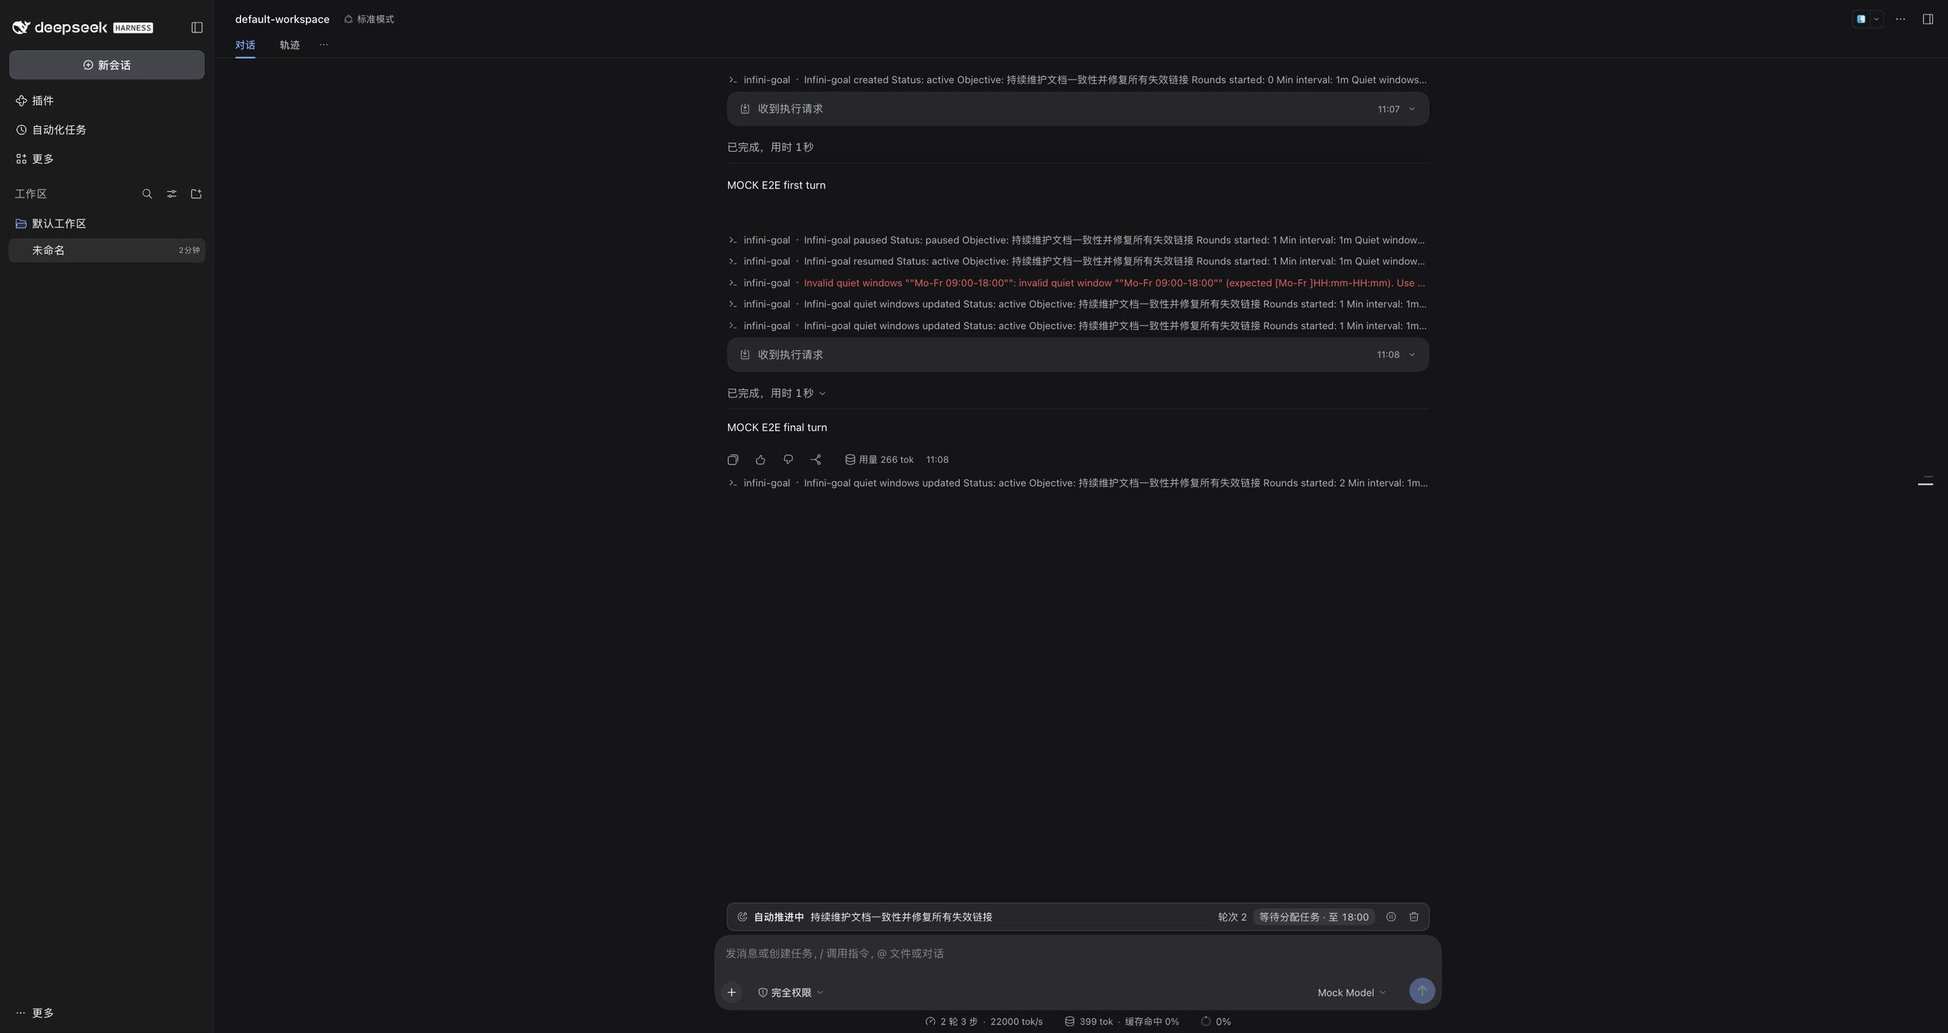
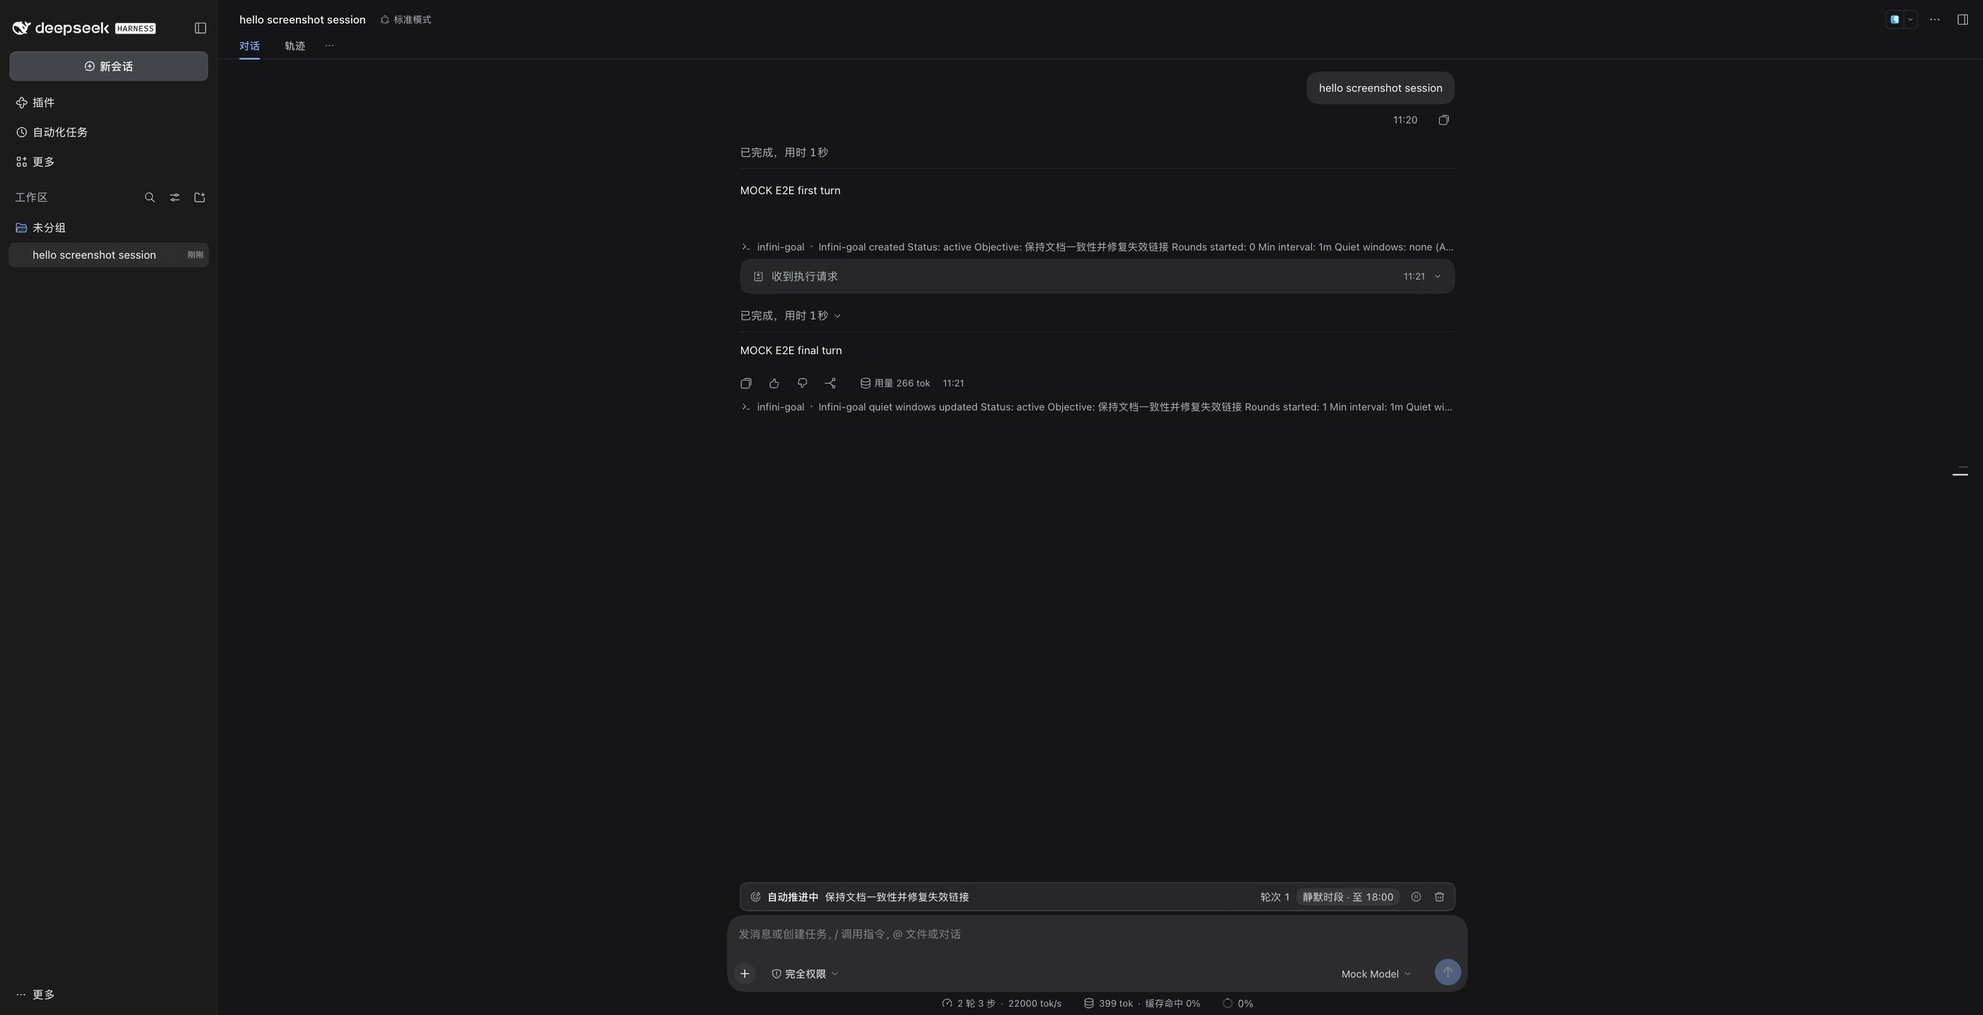
docs: keep quiet-window copy neutral across UI, tools, command, docs
The 'waiting for assigned work' framing was one motivating example, not the
only use case for quiet windows. Neutralize every user-visible and
model-visible string:

- client UI: '静默时段 · 至 {time}' / 'quiet window · until {time}' (was
  '等待分配任务' / 'waiting for assigned work'); meta descriptions updated
- command status: 'Automatic rounds are suppressed until ... (quiet window)'
- model tool guidance/parameter wording: quiet window suppresses automatic
  rounds; goal stays active and human turns continue
- README, DESIGN, bundle README and E2E README list example usages
  (off-hours, focus time, night, business hours, ...) instead of one scenario
- regenerate the quiet-window screenshot with the neutral copy

Behavior is unchanged; pnpm typecheck/test/build and the isolated E2E suite
(SUITE PASS: pacing 2021/2014ms at 2000ms minimum, quiet suppression/release,
pause) are re-verified.

diff --git a/packages/tool/src/index.ts b/packages/tool/src/index.ts
@@ -4,7 +4,7 @@
  *
  * The tools mirror the official `tool-goal` surface, extended with the pacing
  * configuration the infini-goal domain owns: a minimum trigger interval and
- * local-time quiet windows ("waiting for assigned work") instead of a round cap.
+ * local-time quiet windows (automatic-round suppression) instead of a round cap.
  *
  * @module @yankeguo/dsh-tool-infini-goal
  */
@@ -79,9 +79,9 @@ function guidance(blockedAfter: number): string {
     + 'no round cap: while its phase is active the harness keeps starting automatic continuation rounds until it '
     + 'is paused, blocked, completed, or cleared. Two pacing rules shape that autonomy: automatic rounds are spaced '
     + 'by a minimum trigger interval, and no automatic round starts inside the configured local-time quiet windows. '
-    + 'A quiet window is the "employee at work, waiting for assigned work" period: the goal stays active, human '
-    + 'turns and tools run normally, and the model simply does not self-start another round; never treat that '
-    + 'silence as failure or as a blocker. '
+    + 'A quiet window is a configured local-time period in which the goal stays active, human turns and tools run '
+    + 'normally, and the model simply does not self-start another round; never treat that silence as failure or '
+    + 'as a blocker. '
     + 'create_infini_goal may infer goal intent from a direct human request in any language. '
     + 'update_infini_goal action edit, pause, resume, and config require a direct human request. '
     + 'complete and blocked are also allowed during an exact automatic round of the current goal. '
@@ -190,7 +190,7 @@ export function apply(ctx: Context, config: Config): void {
       },
       quiet_windows: {
         type: 'string',
-        description: 'Optional local-time windows where the goal waits for assigned work instead of starting rounds, '
+        description: 'Optional local-time windows where no automatic round starts (the goal stays active and human turns continue), '
           + 'such as "Mo-Fr 09:00-18:00" or "Mo-Fr 09:00-18:00; Sa,Su 10:00-12:00"; "none" disables them.',
       },
       timezone: {

diff --git a/packages/client-ui/src/client/locales.ts b/packages/client-ui/src/client/locales.ts
@@ -6,14 +6,14 @@
  */
 export const zh = {
   'meta.title': '无限目标',
-  'meta.description': '在输入框上方展示无限续跑目标的阶段、轮次与下一次触发倒计时。',
+  'meta.description': '在输入框上方展示无限续跑目标的阶段、轮次、触发节奏与静默时段状态。',
   'phase.active': '自动推进中',
   'phase.paused': '已暂停',
   'phase.blocked': '已阻塞',
   'phase.complete': '已完成',
   'rounds': '轮次 {count}',
   'nextRoundIn': '下一轮 {time}',
-  'waitingUntil': '等待分配任务 · 至 {time}',
+  'waitingUntil': '静默时段 · 至 {time}',
   'minInterval': '最小间隔 {interval}',
   'objective.aria': '目标内容',
   'action.pause': '暂停目标',
@@ -29,14 +29,14 @@ export type InfiniGoalKey = keyof typeof zh
 /** English dictionary, checked complete against the zh key set. */
 export const en = {
   'meta.title': 'Infini Goal',
-  'meta.description': 'Shows the endless goal phase, rounds, and next-trigger countdown above the composer.',
+  'meta.description': 'Shows the endless goal phase, rounds, trigger pacing, and quiet-window state above the composer.',
   'phase.active': 'Auto-continuing',
   'phase.paused': 'Paused',
   'phase.blocked': 'Blocked',
   'phase.complete': 'Complete',
   'rounds': 'Rounds: {count}',
   'nextRoundIn': 'next round in {time}',
-  'waitingUntil': 'waiting for assigned work until {time}',
+  'waitingUntil': 'quiet window · until {time}',
   'minInterval': 'min interval {interval}',
   'objective.aria': 'Goal objective',
   'action.pause': 'Pause goal',

diff --git a/packages/command/tests/render.spec.ts b/packages/command/tests/render.spec.ts
@@ -62,7 +62,7 @@ describe('planLines', () => {
     expect(planLines(current, plan)).toEqual(['Next trigger: 2026-11-05 10:00 (ready now)'])
   })
 
-  it('says the goal is waiting for assigned work inside a quiet window', () => {
+  it('says automatic rounds are suppressed inside a quiet window', () => {
     const current = goal({
       lastRoundAt: null,
       quietWindows: [{ days: [1, 2, 3, 4, 5], start: '09:00', end: '12:00' }],
@@ -72,7 +72,7 @@ describe('planLines', () => {
     expect(plan.quietUntil).toBe(Date.UTC(2026, 10, 5, 4, 0, 0))
     expect(planLines(current, plan)).toEqual([
       'Next trigger: 2026-11-05 12:00 (in 2h)',
-      'Waiting for assigned work until 2026-11-05 12:00 (quiet window; time zone Asia/Shanghai).',
+      'Automatic rounds are suppressed until 2026-11-05 12:00 (quiet window; time zone Asia/Shanghai).',
     ])
   })
 
@@ -156,7 +156,7 @@ describe('renderStatus', () => {
     })
     const result = renderStatus(current, planOf(current))
     expect(result.text).toContain(
-      'Waiting for assigned work until 2026-11-05 12:00 (quiet window; time zone Asia/Shanghai).',
+      'Automatic rounds are suppressed until 2026-11-05 12:00 (quiet window; time zone Asia/Shanghai).',
     )
   })
 })

diff --git a/packages/protocol/src/types.ts b/packages/protocol/src/types.ts
@@ -38,9 +38,11 @@ export interface InfiniGoalBlockReason {
 /**
  * One local-time window in which no automatic round may start.
  *
- * This is the "employee is at work and waits for assigned tasks" period: the
- * durable goal stays active, human turns and tools keep working normally, but
- * the driver never injects a self-started continuation round inside the window.
+ * Inside the window the durable goal stays active, human turns and tools keep
+ * working normally, but the driver never injects a self-started continuation
+ * round. The configuration is application-agnostic: any period during which
+ * automatic continuation should stay quiet (off-hours, focus time, night
+ * hours, business hours, and so on).
  */
 export interface QuietWindow {
   /** ISO weekday numbers the window starts on (1 = Monday … 7 = Sunday); empty means every day. */

diff --git a/packages/client-ui/src/client/format.ts b/packages/client-ui/src/client/format.ts
@@ -69,8 +69,8 @@ export function formatCountdown(delayMs: number): string {
  * Describe the live schedule line of an active goal at one instant.
  *
  * Precedence mirrors what the driver would do:
- * 1. inside a quiet window, the goal is waiting for assigned work until the
- *    window ends (`waitingUntil`, rendered in the goal's own time zone);
+ * 1. inside a quiet window, no automatic round starts until the window ends
+ *    (`waitingUntil`, rendered in the goal's own time zone);
  * 2. while the minimum interval has not elapsed, the configured interval is
  *    shown (`minInterval`);
  * 3. otherwise the remaining delay to the next eligible trigger is counted

diff --git a/packages/client-ui/src/client/InfiniGoalBar.tsx b/packages/client-ui/src/client/InfiniGoalBar.tsx
@@ -4,8 +4,8 @@
  *
  * A present goal shows a goal glyph, its localized phase label, the truncated
  * objective, the admitted-round count, and one live schedule line:
- * - active inside a quiet window → "waiting for assigned work until HH:mm"
- *   (the employee-waits-for-assignment semantics);
+ * - active inside a quiet window → "quiet window · until HH:mm" (automatic
+ *   rounds are suppressed until the window ends);
  * - active while the minimum interval has not elapsed → "min interval 05:00";
  * - active otherwise → "next round in mm:ss", ticking once per second.
  *

diff --git a/packages/driver/src/index.ts b/packages/driver/src/index.ts
@@ -6,8 +6,7 @@
  * protocol package: the next round may start no earlier than
  * `lastRoundAt + minIntervalMs`, and never inside a configured quiet window.
  * While a quiet window is active the goal stays `active` and human turns keep
- * working normally, but no automatic round is injected — the goal waits for
- * assigned work, like an employee on the clock.
+ * working normally, but no automatic round is injected until the window ends.
  *
  * @module @yankeguo/dsh-infini-goal-driver
  */

diff --git a/packages/command/src/render.ts b/packages/command/src/render.ts
@@ -65,7 +65,7 @@ export function planLines(goal: InfiniGoalView, plan: TriggerPlan | undefined): 
   ]
   if (plan.quietUntil !== null) {
     lines.push(
-      `Waiting for assigned work until ${formatZonedDateTime(goal.timezone, plan.quietUntil)}`
+      `Automatic rounds are suppressed until ${formatZonedDateTime(goal.timezone, plan.quietUntil)}`
       + ` (quiet window; time zone ${goal.timezone}).`,
     )
   }

diff --git a/docs/DESIGN.md b/docs/DESIGN.md
@@ -1,7 +1,7 @@
 # dsh-infini-goal 设计说明
 
 一套 DeepSeek Harness（DSH）插件，参考官方 `dsh-goal` 的领域模型、模型工具与 UI 形态，
-但把"自动续跑"改造成**无限轮次 + 最小触发间隔 + 静默时段**的员工式目标。
+但把"自动续跑"改造成一个**无轮次上限 + 最小触发间隔 + 可配置静默时段**的无限目标。
 
 ## 1. 与官方 dsh-goal 的差异
 
@@ -9,15 +9,16 @@
 | --- | --- | --- |
 | 轮次上限 | `maxGoalRounds`（默认 256），用尽后 `resume` 被拒绝 | **无上限**，目标保持 `active` 直到被 pause / block / complete / clear |
 | 续跑节流 | 无：一旦 agent 空闲立即进入下一轮，空循环会疯狂重试 | **最小触发间隔** `minIntervalMs`：两次自动轮次的开始时间至少相隔这么久 |
-| 触发时段 | 无 | **静默时段** `quietWindows`：配置的本地时间段内绝不自动触发（模拟上班时间等待派活） |
+| 触发时段 | 无 | **静默时段** `quietWindows`：配置的本地时间段内不自动触发（免打扰、专注时段、非工作时段、夜间等任意场景） |
 | 激活模型 | 进程内 `armed`/`disarmed`，session 恢复/派生后自动解除武装 | 纯持久化：`phase === 'active'` 即自动续跑（进程重启、会话恢复后继续），节流与静默时段兜底 |
 | 远程 API | Typert Remote（`ctx.remote.goals`） | 不需要自定义 Remote：UI 读 Session projection，操作通过 `/infini-goal` 命令 |
 | 工具 | `get_goal` / `create_goal` / `update_goal` | `get_infini_goal` / `create_infini_goal` / `update_infini_goal` |
 | 命令 | `/goal` | `/infini-goal` |
 
-"上班员工"语义：把 `quietWindows` 设为工作时间（例如 `Mo-Fr 09:00-18:00`）。
-在该时段内目标保持 `active`，人类的普通对话、工具调用照常工作，但插件不会自动
-注入新一轮续跑消息——它像员工一样等待被分配任务；时段结束后才继续自主推进。
+静默时段只约束"自动触发"：在该时段内目标保持 `active`，人类的普通对话、工具调用照常工作，
+但插件不会自动注入新一轮续跑消息；时段结束后按节奏继续推进。
+这是一种通用机制，具体怎么用由使用者决定，例如：免打扰时段、专注工作时段、非工作时间、
+夜间、值班交接时间等。
 
 ## 2. 包结构
 
@@ -177,7 +178,7 @@ Round prompt（模型可见）：`<infini_goal_round>` 块，包含 objective、
 ## 7. 模型工具（`tool` 包）
 
 `inject = ['agents', 'infiniGoals', 'tools', 'systemPrompt']`，注册 system prompt section
-`tool:infini-goal`（解释无限续跑、最小间隔、静默时段"等待派活"语义、完成/阻塞纪律）。
+`tool:infini-goal`（解释无限续跑、最小间隔、静默时段对自动触发的抑制、完成/阻塞纪律）。
 
 - `get_infini_goal`：无参数，返回 `{ goal: null }` 或 `{ goal: {id, revision, objective, phase,
   roundsStarted, lastRoundAt, minIntervalMs, quietWindows, timezone, blockedReason?},
@@ -223,7 +224,7 @@ Round prompt（模型可见）：`<infini_goal_round>` 块，包含 objective、
 - 展示：
   - 无目标 / complete → 不渲染；
   - active：图标 + "自动推进中" + objective + 轮次 + "下一轮 00:42"；
-    静默时段内显示 "等待分配任务 · 至 18:00"；间隔等待显示 "最小间隔 01:00"；
+    静默时段内显示 "静默时段 · 至 18:00"；间隔等待显示 "最小间隔 01:00"；
   - paused / blocked：状态标签 + reason，显示 resume 按钮；
   - 操作按钮：pause / resume / clear（全部通过 `executeCommand('/infini-goal pause')` 等命令执行，
     UI 不实现自己的 Remote API）。
@@ -264,7 +265,7 @@ Round prompt（模型可见）：`<infini_goal_round>` 块，包含 objective、
   3. paused：等待 5s 无新轮次；
   4. 浏览器 boot graph 含 `@yankeguo/dsh-client-ui-infini-goal`，client bundle HTTP 200 可服务；
   5. 真实浏览器验证：`/infini-goal` 命令创建目标后状态条出现（active/轮次/最小间隔），
-     pause/resume/quiet 命令生效，静默时段显示"等待分配任务 · 至 18:00"；
+     pause/resume/quiet 命令生效，静默时段显示"静默时段 · 至 18:00"；
   6. `scripts/install-profile.mjs` 安装模式（profile bundle + node_modules 链接，非 --patch）
      同样能加载全部插件、命令与 UI。
 - 截图见 `docs/screenshots/`。
@@ -284,5 +285,5 @@ Round prompt（模型可见）：`<infini_goal_round>` 块，包含 objective、
   由驱动器改写成持久化 pause，因此 UI 永远能看到可 resume 的状态。
 - **UI**：v1 不含 objective 内联编辑（命令 `edit` 覆盖），按钮只做 pause/resume/clear；
   等待最小间隔时状态条显示 `最小间隔 1m`（来自 `planTrigger.reason='interval'`），
-  静默时段显示 `等待分配任务 · 至 HH:mm`。
+  静默时段显示 `静默时段 · 至 HH:mm`。
 - **命令**：`/infini-goal status` 为无参数形式的显式别名；命令不接受附件（返回友好错误）。

diff --git a/README.md b/README.md
@@ -2,12 +2,12 @@
 
 一套面向 [DeepSeek Harness](https://github.com/deepseek-ai/deepseek-harness)（DSH）的插件：
 参考官方 `dsh-goal` 的领域模型、模型工具与 UI 形态，但把"自动续跑"改造成一个
-**无限轮次的员工式目标**。
+**无轮次上限、按最小间隔推进、可配置静默时段**的无限目标。
 
 - **没有最大轮次**：目标保持 `active` 直到被完成、暂停、阻塞或清除；
 - **最小触发间隔**：两次自动轮次的开始时间至少相隔 `minIntervalMs`，空循环不会疯狂重试；
-- **静默时段**（`quietWindows`）：配置的本地时间段内绝不自动触发，模拟员工上班时间
-  "等着被分配任务"；人类对话与工具调用照常工作，时段结束后自动继续。
+- **静默时段**（`quietWindows`）：配置的本地时间段内不自动触发；人类对话与工具调用照常工作，
+  时段结束后自动继续。可用于免打扰、专注时段、非工作时段、夜间等任意场景。
 
 ## 特性
 
@@ -20,15 +20,15 @@
 | Session projection | `infiniGoal` projection 把当前目标同步到浏览器，UI 无需自定义 Remote API |
 | 模型工具 | `get_infini_goal` / `create_infini_goal` / `update_infini_goal` |
 | 人类命令 | `/infini-goal`，可在不消耗模型轮次的情况下查看状态、配置节奏、暂停/恢复 |
-| 状态条 UI | composer 上方的 InfiniGoalBar：阶段、轮次、下一轮倒计时、静默等待提示、暂停/恢复/清除 |
+| 状态条 UI | composer 上方的 InfiniGoalBar：阶段、轮次、触发节奏、静默时段提示、暂停/恢复/清除 |
 
 ## 界面
 
 状态条固定在 composer 上方，与官方 goal 的 GoalBar 同槽位（`conversation.input.dock`）：
 
-| 自动推进中（显示轮次与节奏） | 静默时段（上班等待派活） |
+| 自动推进中（显示轮次与节奏） | 静默时段（不自动触发） |
 | --- | --- |
-| ![自动推进中](docs/screenshots/infini-goal-active.jpg) | ![等待分配任务](docs/screenshots/infini-goal-waiting.jpg) |
+| ![自动推进中](docs/screenshots/infini-goal-active.jpg) | ![静默时段](docs/screenshots/infini-goal-waiting.jpg) |
 
 ## 与官方 dsh-goal 的差异
 
@@ -91,7 +91,7 @@ node scripts/install-profile.mjs --profile desktop --dsh-home ~/.dsh
 /infini-goal 修完所有 failed 的文档校验并保持 CI 绿色   # 创建目标
 /infini-goal                                          # 查看状态与下一次触发时间
 /infini-goal interval 10m                             # 最小触发间隔改成 10 分钟
-/infini-goal quiet "Mo-Fr 09:00-18:00"                # 工作时间不自动触发（等待派活）
+/infini-goal quiet "Mo-Fr 09:00-18:00"                # 示例：该时段不自动触发
 /infini-goal quiet none                               # 取消静默时段
 /infini-goal timezone Asia/Shanghai                   # 设置静默时段时区（system 用本机时区）
 /infini-goal pause | resume | complete | clear

diff --git a/packages/bundle/README.md b/packages/bundle/README.md
@@ -1,24 +1,24 @@
 ---
-description: "Endless goal mode for DeepSeek Harness: no round cap, a configurable minimum trigger interval, and quiet time windows where the goal waits for assigned work."
+description: "Endless goal mode for DeepSeek Harness: no round cap, a configurable minimum trigger interval, and quiet time windows that suppress automatic rounds."
 kind: "package-bundle"
 ---
 
 # @yankeguo/dsh-infini-goal-bundle
 
 参考官方 `dsh-goal` 的领域模型、模型工具与 UI 形态，但把"自动续跑"改造成一个
-**无限轮次的员工式目标**的 DSH 插件套件。
+**无轮次上限、按最小间隔推进、可配置静默时段**的无限目标的 DSH 插件套件。
 
 ## 特性
 
 - **无限轮次**：没有 `maxGoalRounds`，目标保持 `active` 直到被 pause / block / complete / clear。
 - **最小触发间隔**：两次自动轮次的开始时间至少相隔 `minIntervalMs`（默认 1 分钟，最小 1 秒），
   空循环不会出现"秒回秒触发"。
-- **静默时段**：配置本地时间段（支持跨午夜、按星期过滤、IANA 时区），时段内绝不自动触发；
-  人类对话、工具调用照常工作，时段结束后自动继续——像上班的员工在等待被分配任务。
+- **静默时段**：配置本地时间段（支持跨午夜、按星期过滤、IANA 时区），时段内不自动触发；
+  人类对话、工具调用照常工作，时段结束后自动继续。可用于免打扰、专注时段、非工作时段、夜间等任意场景。
 - **事件溯源**：所有变更写入 Session 日志（`infini-goal/change`），严格回放校验，可跨重启/恢复/fork。
 - **模型工具**：`get_infini_goal` / `create_infini_goal` / `update_infini_goal`。
 - **人类命令**：`/infini-goal`（状态、创建、编辑、暂停、恢复、完成、阻塞、清除、interval/quiet/timezone）。
-- **状态条 UI**：composer 上方显示阶段、轮次、下一轮倒计时、静默等待提示，以及暂停/恢复/清除按钮。
+- **状态条 UI**：composer 上方显示阶段、轮次、触发节奏、静默时段提示，以及暂停/恢复/清除按钮。
 
 ## 本 bundle 包含的插件行
 
@@ -80,7 +80,7 @@ dsh web --patch .tmp/cordis.patch.yml --port 34000 --no-open
 /infini-goal <目标>                     # 创建
 /infini-goal                            # 状态 + 下一次触发时间
 /infini-goal interval 10m               # 最小触发间隔
-/infini-goal quiet "Mo-Fr 09:00-18:00"  # 工作时间静默（等待派活）
+/infini-goal quiet "Mo-Fr 09:00-18:00"  # 示例：该时段静默
 /infini-goal quiet none                 # 取消静默
 /infini-goal timezone Asia/Shanghai
 /infini-goal edit <新目标>

diff --git a/tools/e2e/README.md b/tools/e2e/README.md
@@ -522,7 +522,7 @@ class="infini-goal-schedule" title="none · Asia/Shanghai" aria-live="off">
 
 The schedule line follows the goal state: `最小间隔 1m` while the minimum
 interval is pending, `下一轮 mm:ss` for the live countdown, and
-`等待分配任务 · 至 HH:mm` inside a quiet window.
+`静默时段 · 至 HH:mm` inside a quiet window.
 
 4. **Click the bar's pause button** (`button[aria-label="暂停目标"]`, en
    `"Pause goal"`; the clear button is `aria-label="清除目标"`). Assert both the
